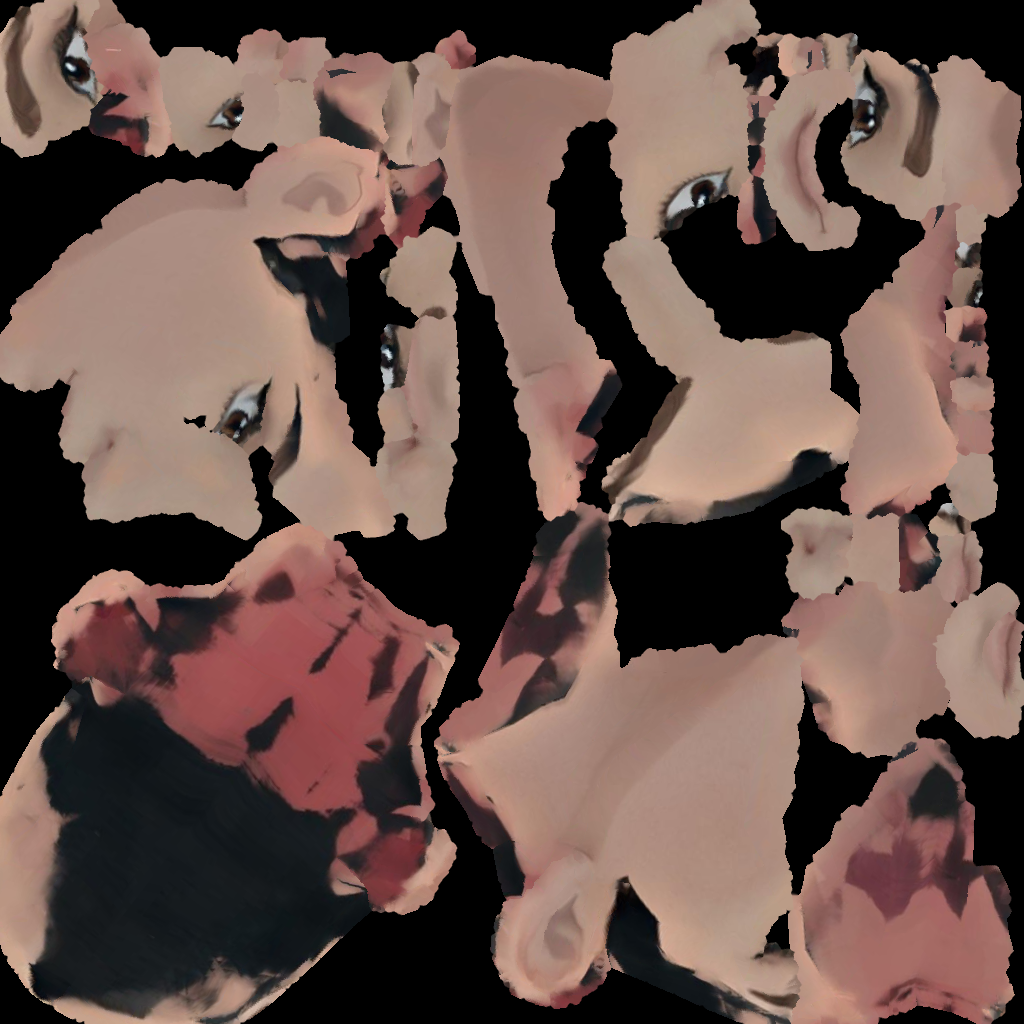
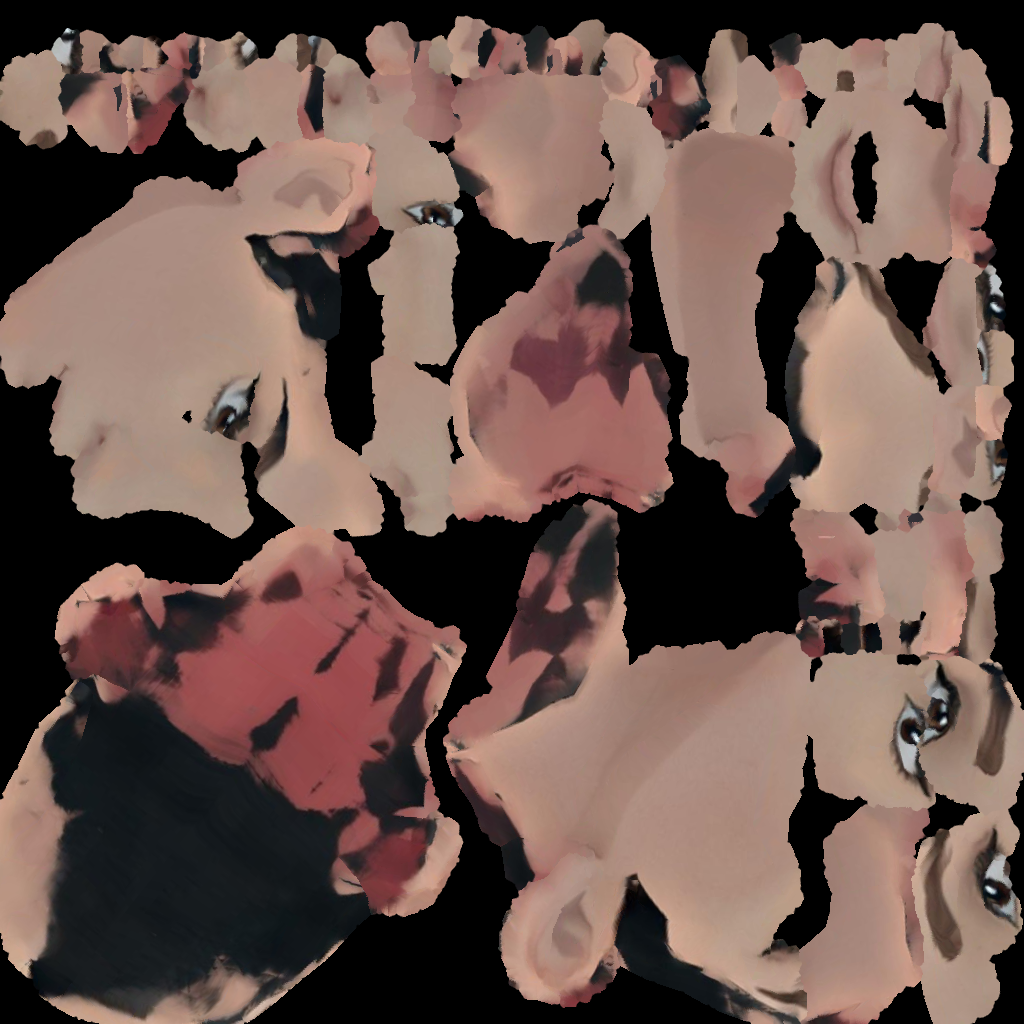
[ACTOR-D87] tripo_head_map HEAD_KEEP_ABOVE: the female's eyes from the original head, her mouth and chin from the subdivided one (Director)

diff --git a/tools/asset_generation/tripo/tripo_head_map.py b/tools/asset_generation/tripo/tripo_head_map.py
@@ -6,7 +6,8 @@
 # Also prints the median skin colour of the map (the face's central pixels), for the hands' palette entry.
 # In: HEAD_IN (a tripo_uv output: the head still on Tripo's UVs), HEAD_SRC (the raw Tripo GLB of the same figure, which carries the atlas).
 # Out: HEAD_MAP (the PNG), HEAD_OUT (the GLB, the head on its new UVMap). Env: HEAD_RES (default 1024), HEAD_SMOOTH (1: weld + smooth shading only: not
-# enough, the female's lines are folds of the mesh), HEAD_SUBDIV (1 for the female, chosen 2026-10-31: the folds go, the drawing softens a little). Usage: blender -b -P tripo_head_map.py
+# enough, the female's lines are folds of the mesh), HEAD_SUBDIV (1 for the female, chosen 2026-10-31: the folds go, the drawing softens a little), HEAD_KEEP_ABOVE ("lo,hi": the original
+# shape back above hi, see the code; the female: 0.40,0.50). Usage: blender -b -P tripo_head_map.py
 import os, sys
 import numpy as np
 import bpy
@@ -47,7 +48,23 @@ if SUBDIV or SMOOTH:
     bmesh.ops.remove_doubles(bm, verts=bm.verts, dist=1e-5 * H_); bm.to_mesh(me); bm.free()
     if SUBDIV:
         md = head.modifiers.new("subd", 'SUBSURF'); md.levels = md.render_levels = SUBDIV; md.uv_smooth = 'NONE'
+        from mathutils.bvhtree import BVHTree             # the original surface, to give the upper face its own drawing back
+        orig = BVHTree.FromPolygons([v.co.copy() for v in me.vertices], [tuple(p_.vertices) for p_ in me.polygons])
         bpy.ops.object.modifier_move_to_index(modifier="subd", index=0); bpy.ops.object.modifier_apply(modifier="subd")
+        # KEEP_ABOVE (Director, 2026-10-31: "o olho de uma e a boca da outra"): the subdivided face below z_lo (the mouth, the chin) and the
+        # original face above z_hi (the eyes, the brows), as fractions of the head's height; between them a smooth blend toward each
+        # vertex's nearest point on the original surface
+        ka = os.environ.get("HEAD_KEEP_ABOVE", "")
+        if ka:
+            lo_, hi_ = (float(x) for x in ka.split(","))
+            zs_ = [v.co.z for v in me.vertices]; z0, z1 = min(zs_), max(zs_)
+            for v in me.vertices:
+                t = min(1.0, max(0.0, ((v.co.z - z0) / (z1 - z0) - lo_) / (hi_ - lo_))); t = t * t * (3 - 2 * t)
+                if t > 0:
+                    q = orig.find_nearest(v.co)[0]
+                    if q is not None:
+                        v.co = v.co.lerp(q, t)
+            me.update()
     if hasattr(me, "has_custom_normals") and me.has_custom_normals:
         bpy.ops.mesh.customdata_custom_splitnormals_clear()
     for poly in me.polygons:
